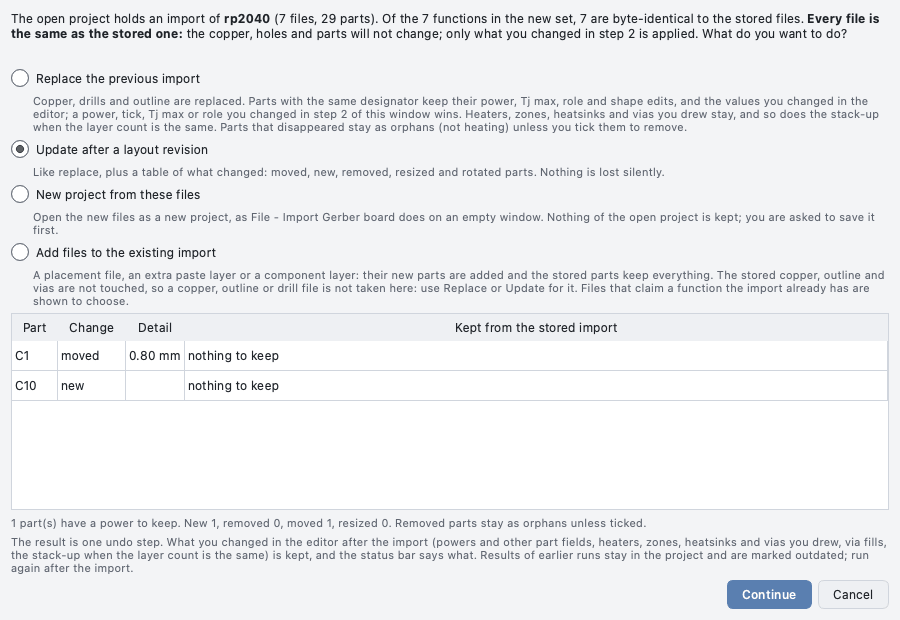
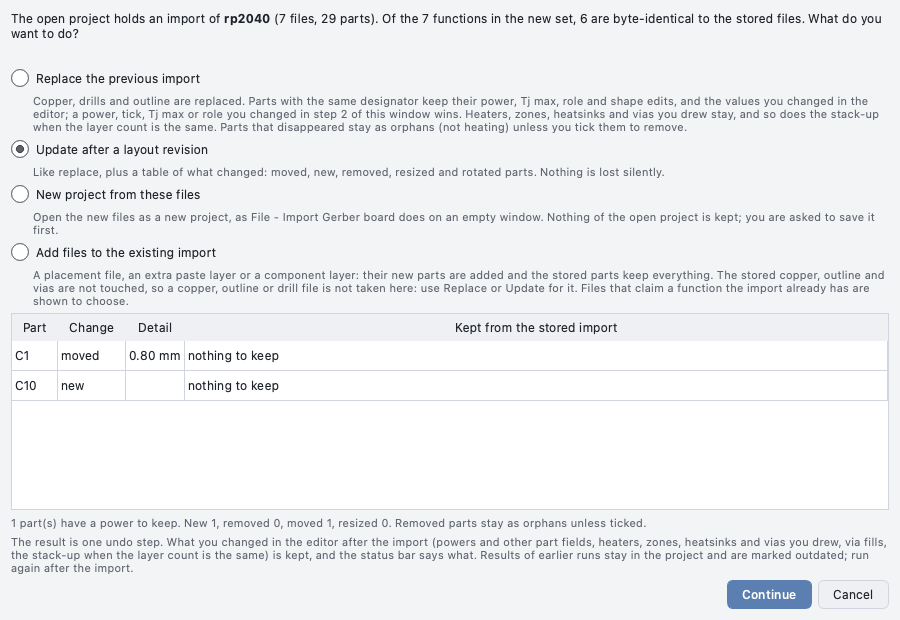
Make the re-import picture say that some files differ
The scenario changed a part and added another but kept every file
identical, so the dialog said 'Every file is the same' above a table of
changes. The stored paste file now has another checksum, as in a real
layout revision.

Claude-Session: https://claude.ai/code/session_01XgeLDd5tWg6CEJL9TQpCpU

Changed region(s): [[0.0, 0.0, 0.9644, 0.0613]]

diff --git a/examples/make_screenshots.py b/examples/make_screenshots.py
@@ -261,6 +261,11 @@ def main_import(out_dir, board_dir):
                 if q.designator == "C1":
                     q.polygon_mm = [[x + 0.8, y] for x, y in q.polygon_mm]
                     q.from_file["position_mm"] = [q.from_file["position_mm"][0] + 0.8, q.from_file["position_mm"][1]] if q.from_file.get("position_mm") else None
+            # A layout revision also changes files: the stored copy of the top paste layer is another version (other checksum), so the dialog says that some files differ
+            for f in old.files:
+                if "paste" in (f.function or "").lower():
+                    f.sha256 = "0" * 64
+                    break
             w2 = ImportBoardWindow(win, existing=old)
             w2.confirm = lambda *a: True
             w2.notify = lambda *a: None
